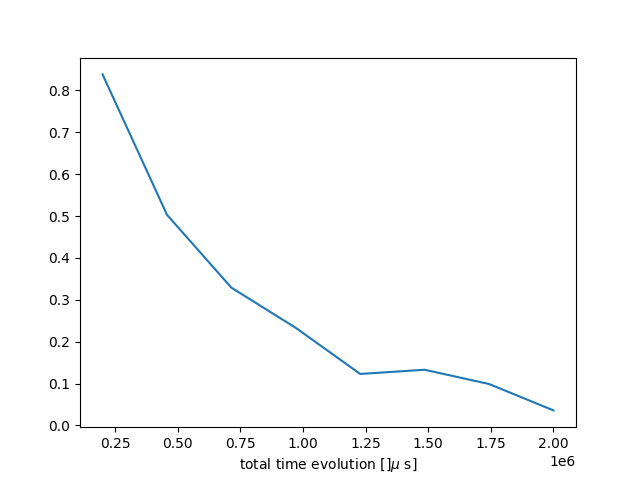
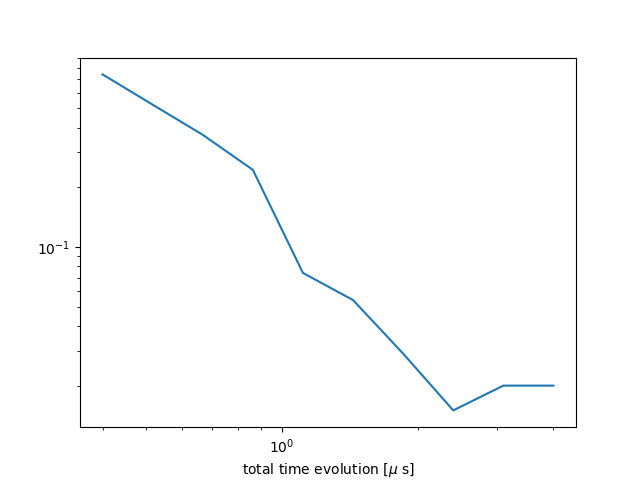
first result

diff --git a/main.py b/main.py
@@ -25,16 +25,22 @@ def main():
     l2 = 3
 
     costs = []
-    T = np.linspace(200,2000,8)
+    T = 4*np.logspace(2,3,10)
     for t in T:
-
         t = t-t%4
-        omega_schedules, delta_scedules, cost = schedule_optimizer(omega_max, delta_max, l1, l2, t, reg)
-        costs.append(cost)
+        cost_intermediate = []
+        for l1 in [2,4]:
+            for l2 in [4,6,8]:
+
+                omega_schedules, delta_scedules, cost = schedule_optimizer(omega_max, delta_max, l1, l2, t, reg)
+                cost_intermediate.append(cost)
+        costs.append(min(cost_intermediate))
 
     plt.figure()
     plt.plot(T/1000,costs)
     plt.xlabel(r'total time evolution [$\mu$ s]')
+    plt.xscale('log')
+    plt.yscale('log')
     plt.savefig('cost_vs_time.png')
 
 if __name__ == '__main__':
